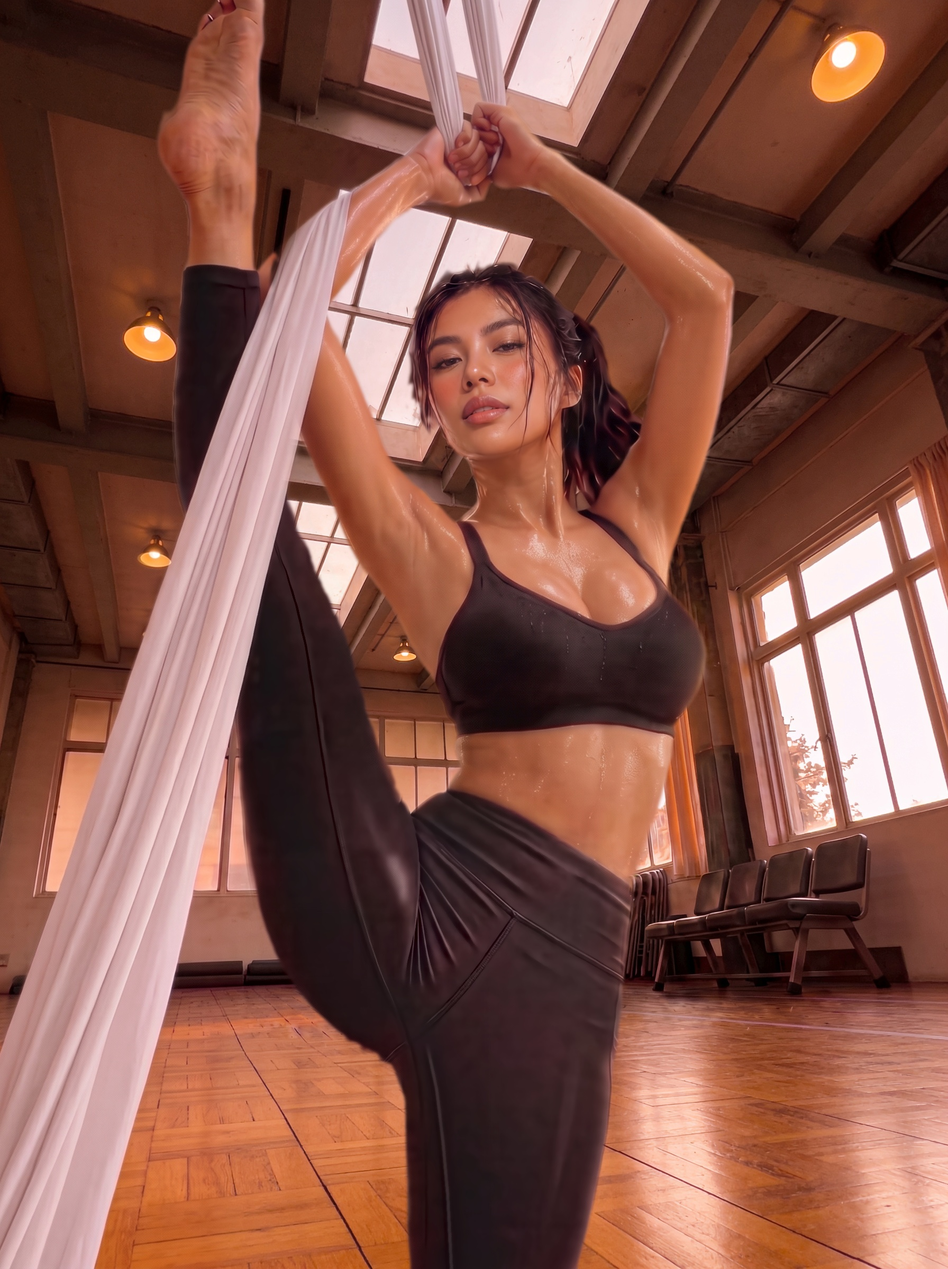
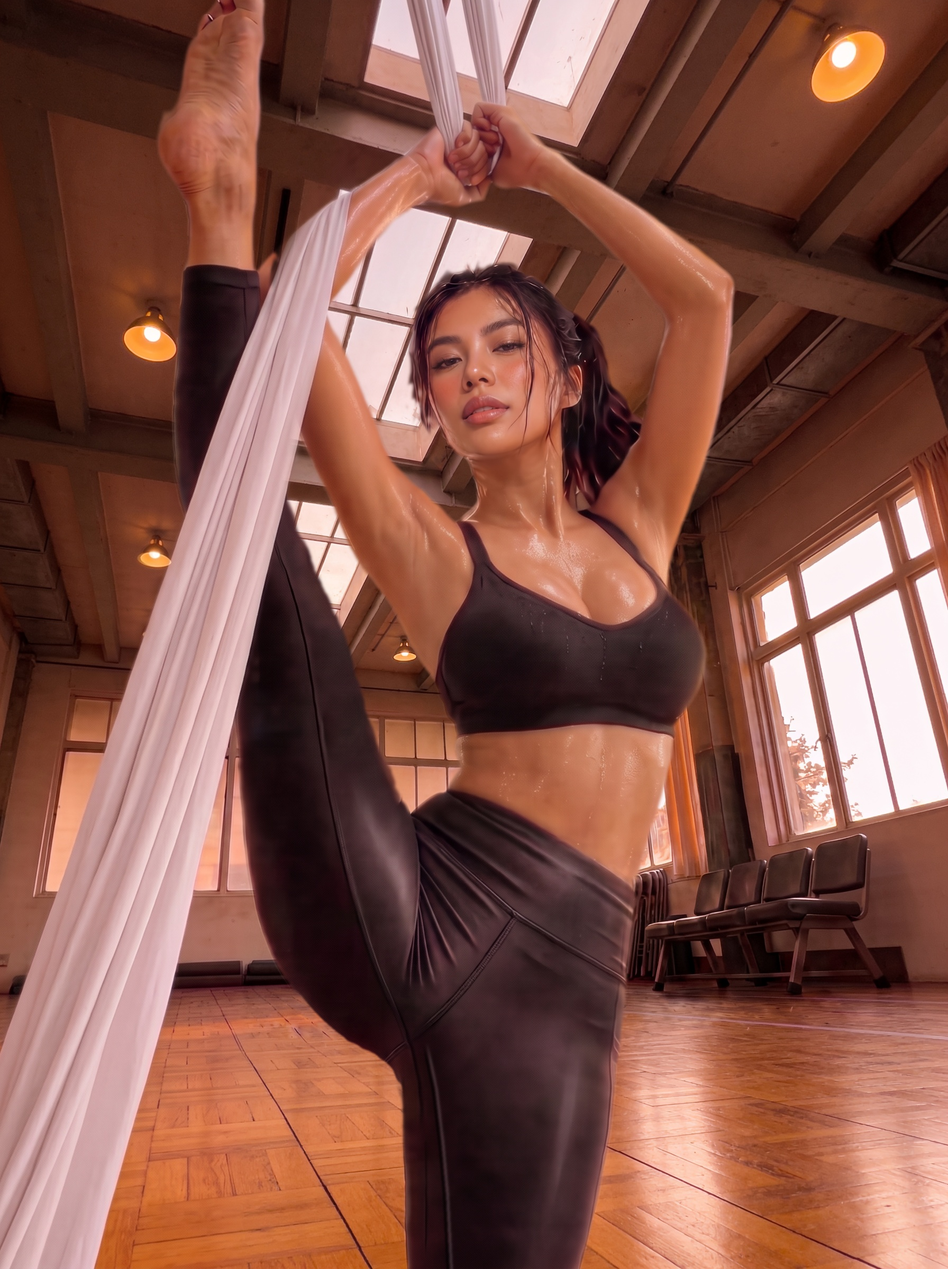
Vicky 瑜伽定稿：圈選處腿緣灰霧修掉（以背景重生成版為底）

diff --git a/production/modeling_runs/2026-10-12_pioneer4/REPORT.md b/production/modeling_runs/2026-10-12_pioneer4/REPORT.md
@@ -3292,3 +3292,11 @@ Scene: cream brick wall with dark wood beams, blue sky with clouds at the top le
 - 做法（本機，0 點）：只在該區（x 380～950、y 1700～2400）重算人物遮罩——去背 alpha 0.6 以上 → 高斯 9 px 後二值化（把凸起磨平成順的輪廓）→ 內縮 7 px → 羽化 1.8 px；遮罩外改用 Seedream 新背景底圖的乾淨地板；整塊以柔邊融回。
 - 結果：大腿下緣輪廓變平順，邊上的暗色髒邊消失，地板接到腿邊是乾淨的 ✅。最終檔同名覆蓋，備份同步。
 - 點數：0 點。本專案本批累計 550.90 點。
+
+## 追加 171（2026-10-16）：Vicky 瑜伽定稿——圈選處（舉起大腿下緣）灰霧髒邊，改以背景重生成那版為底
+
+- 製作師：圈出位置（舉起的大腿下緣、靠站立腳與地板處）；為避免多次修改造成漂移，用剛生成完背景的那一張（追加 168 `d2_final`）來改。追加 169、170 的修改不採用。
+- 判讀：該處腿緣外有一圈半透明的灰色霧邊與暗斑（去背邊緣混到舊背景）。
+- 做法（本機，0 點）：只在圈選處（約 x 500～860、y 1820～2120，橢圓羽化）重定腿緣——以亮度＜48 判定褲料、平滑後二值化、內縮 3 px、羽化 1.5 px；腿緣外換成新背景底圖的乾淨地板。其他地方完全沿用 `d2_final`。
+- 結果：灰霧與暗斑消失，腿緣俐落、地板乾淨 ✅。最終檔同名覆蓋（`社群媒體/vicky/vicky_img5_yoga_aerial_split.jpg`），備份同步。
+- 點數：0 點。本專案本批累計 550.90 點。
